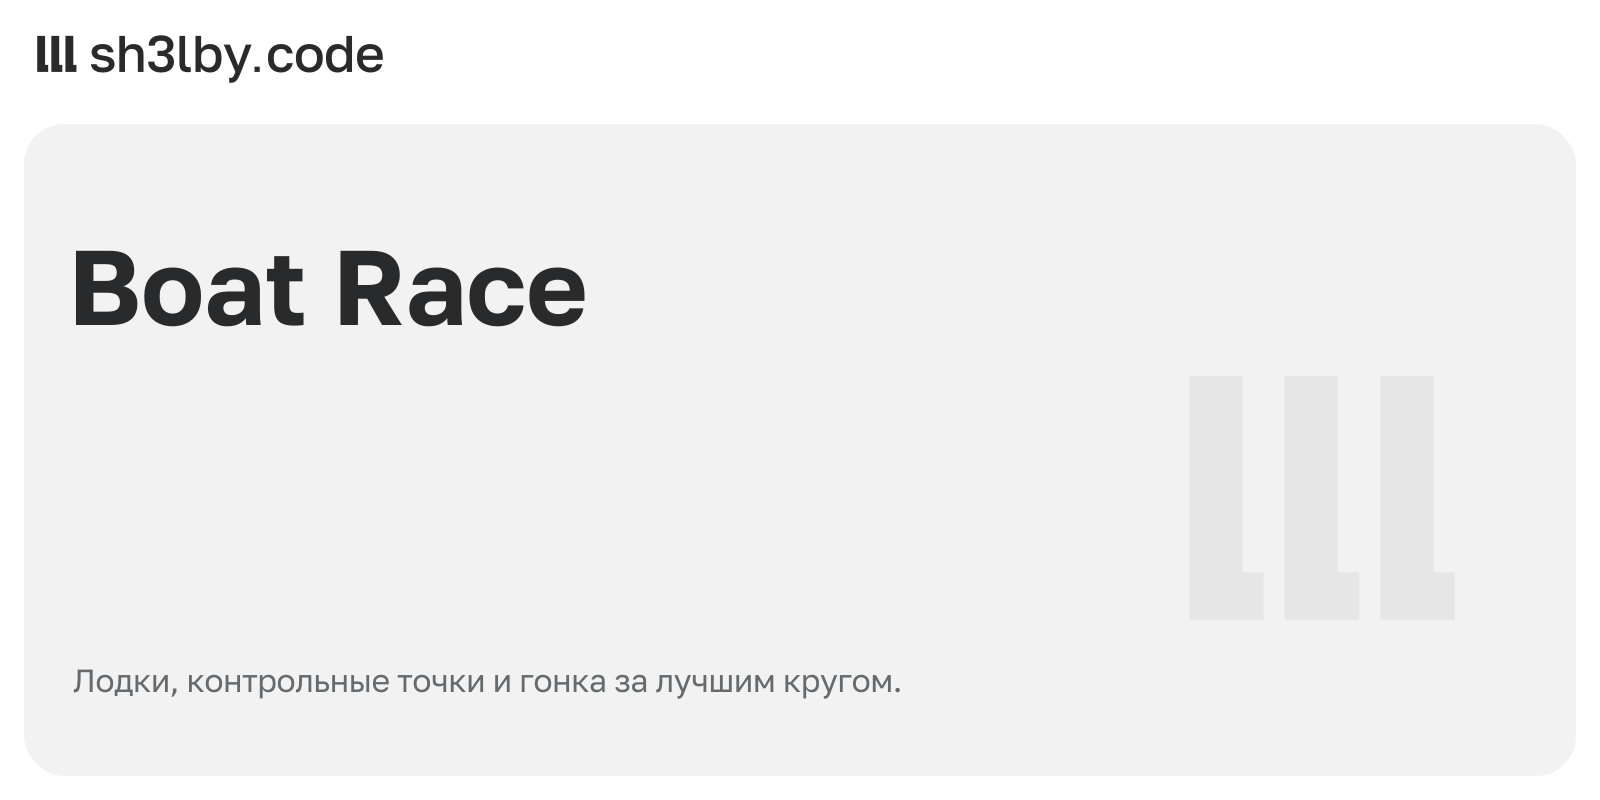
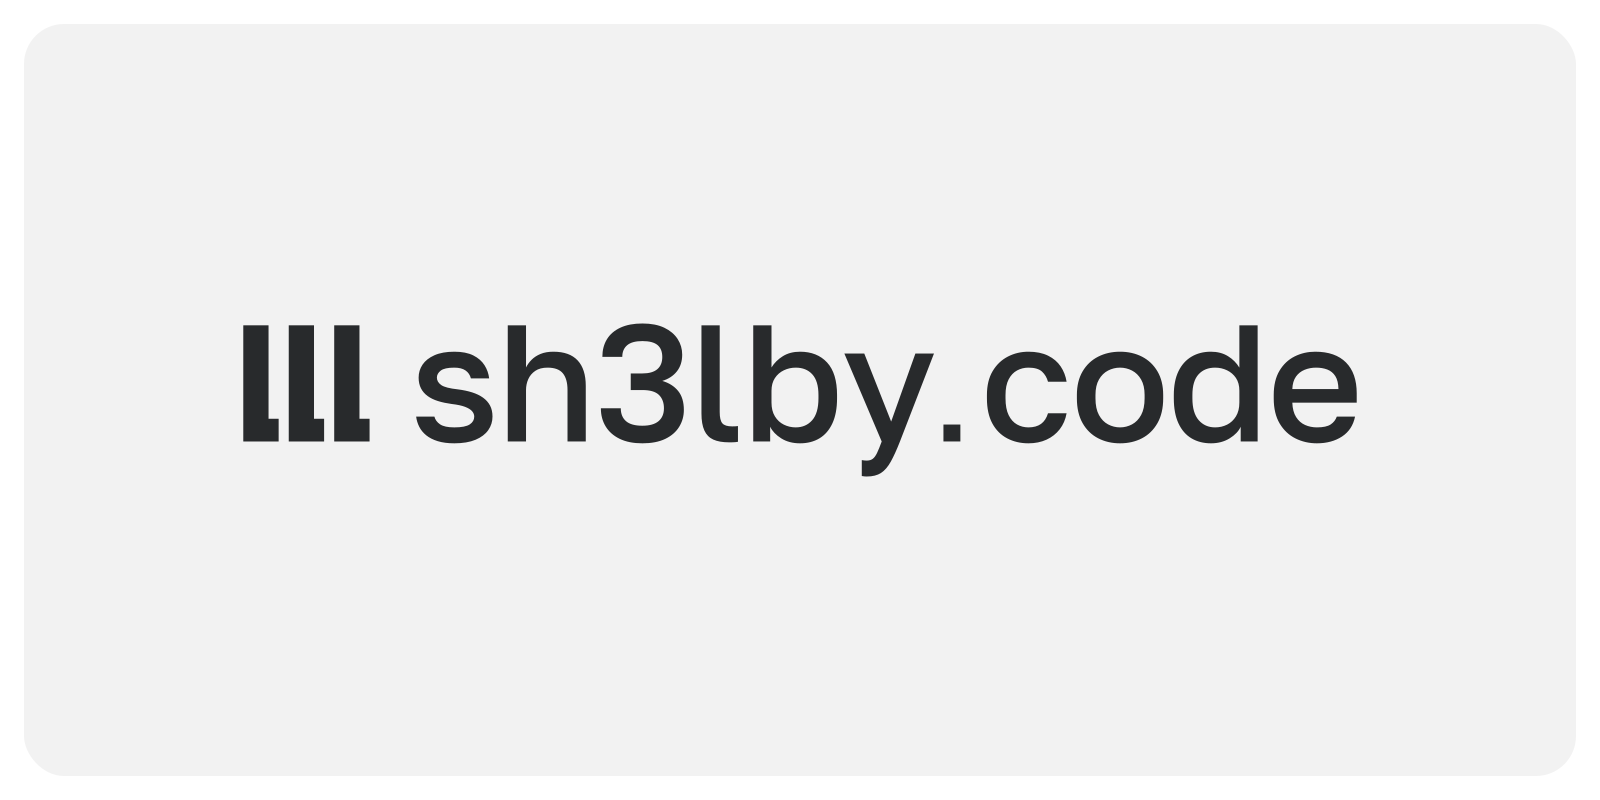
docs: use neutral_banner generator without customization

Changed region(s): [[0.0312, 0.3125, 0.875, 0.5938], [0.0312, 0.8438, 0.5625, 0.875], [0.0, 0.0312, 0.25, 0.0938]]

diff --git a/README.md b/README.md
@@ -1,7 +1,7 @@
 # Race
 
 <!-- portfolio-card:start -->
-[![Boat Race — Лодки, контрольные точки и гонка за лучшим кругом.](docs/portfolio/card.png)](docs/portfolio/card.svg)
+[![sh3lby.code — нейтральная обложка](docs/portfolio/card.png)](docs/portfolio/card.svg)
 <!-- portfolio-card:end -->
 
 Гонки на лодках для Paper 1.21: одна трасса в отдельном мире, один активный заезд,
